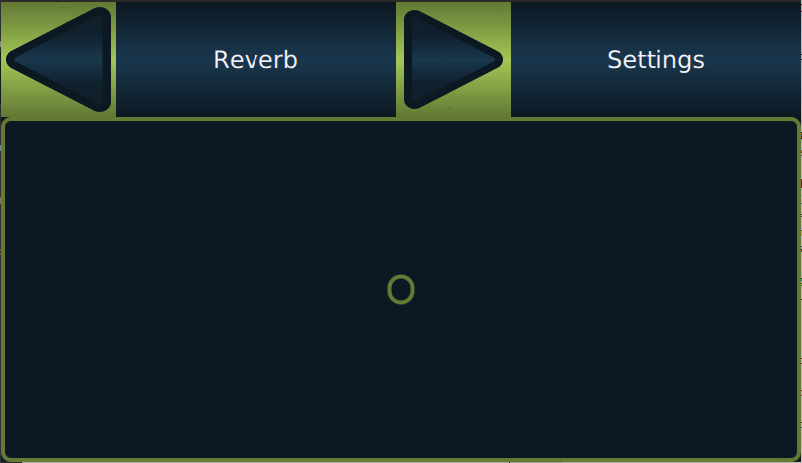
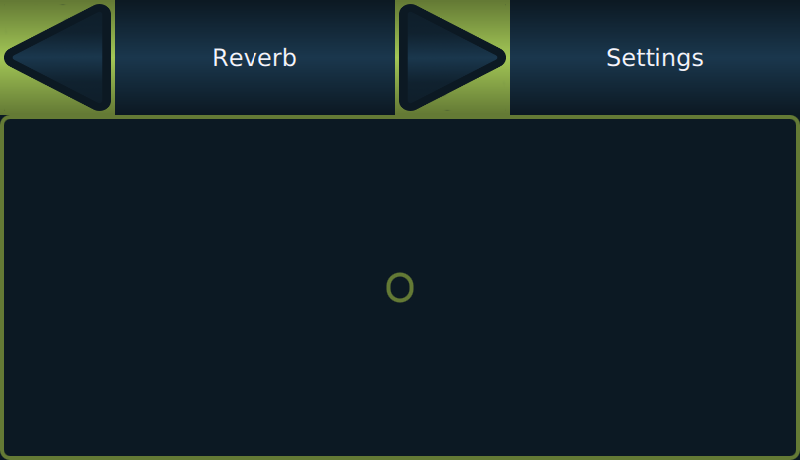
fixed forward/backward buttons, updated screenshots

diff --git a/main.qml b/main.qml
@@ -73,7 +73,7 @@ Item {
             width: parent.height// * 0.75
             height: parent.height// * 0.75
             anchors.fill: parent
-            anchors.margins: 5
+            anchors.margins: 4
             rotation: 180
         }
 
@@ -101,7 +101,7 @@ Item {
             width: parent.height// * 0.75
             height: parent.height// * 0.75
             anchors.fill: parent
-            anchors.margins: 8
+            anchors.margins: 4
             rotation: 0
         }
 
